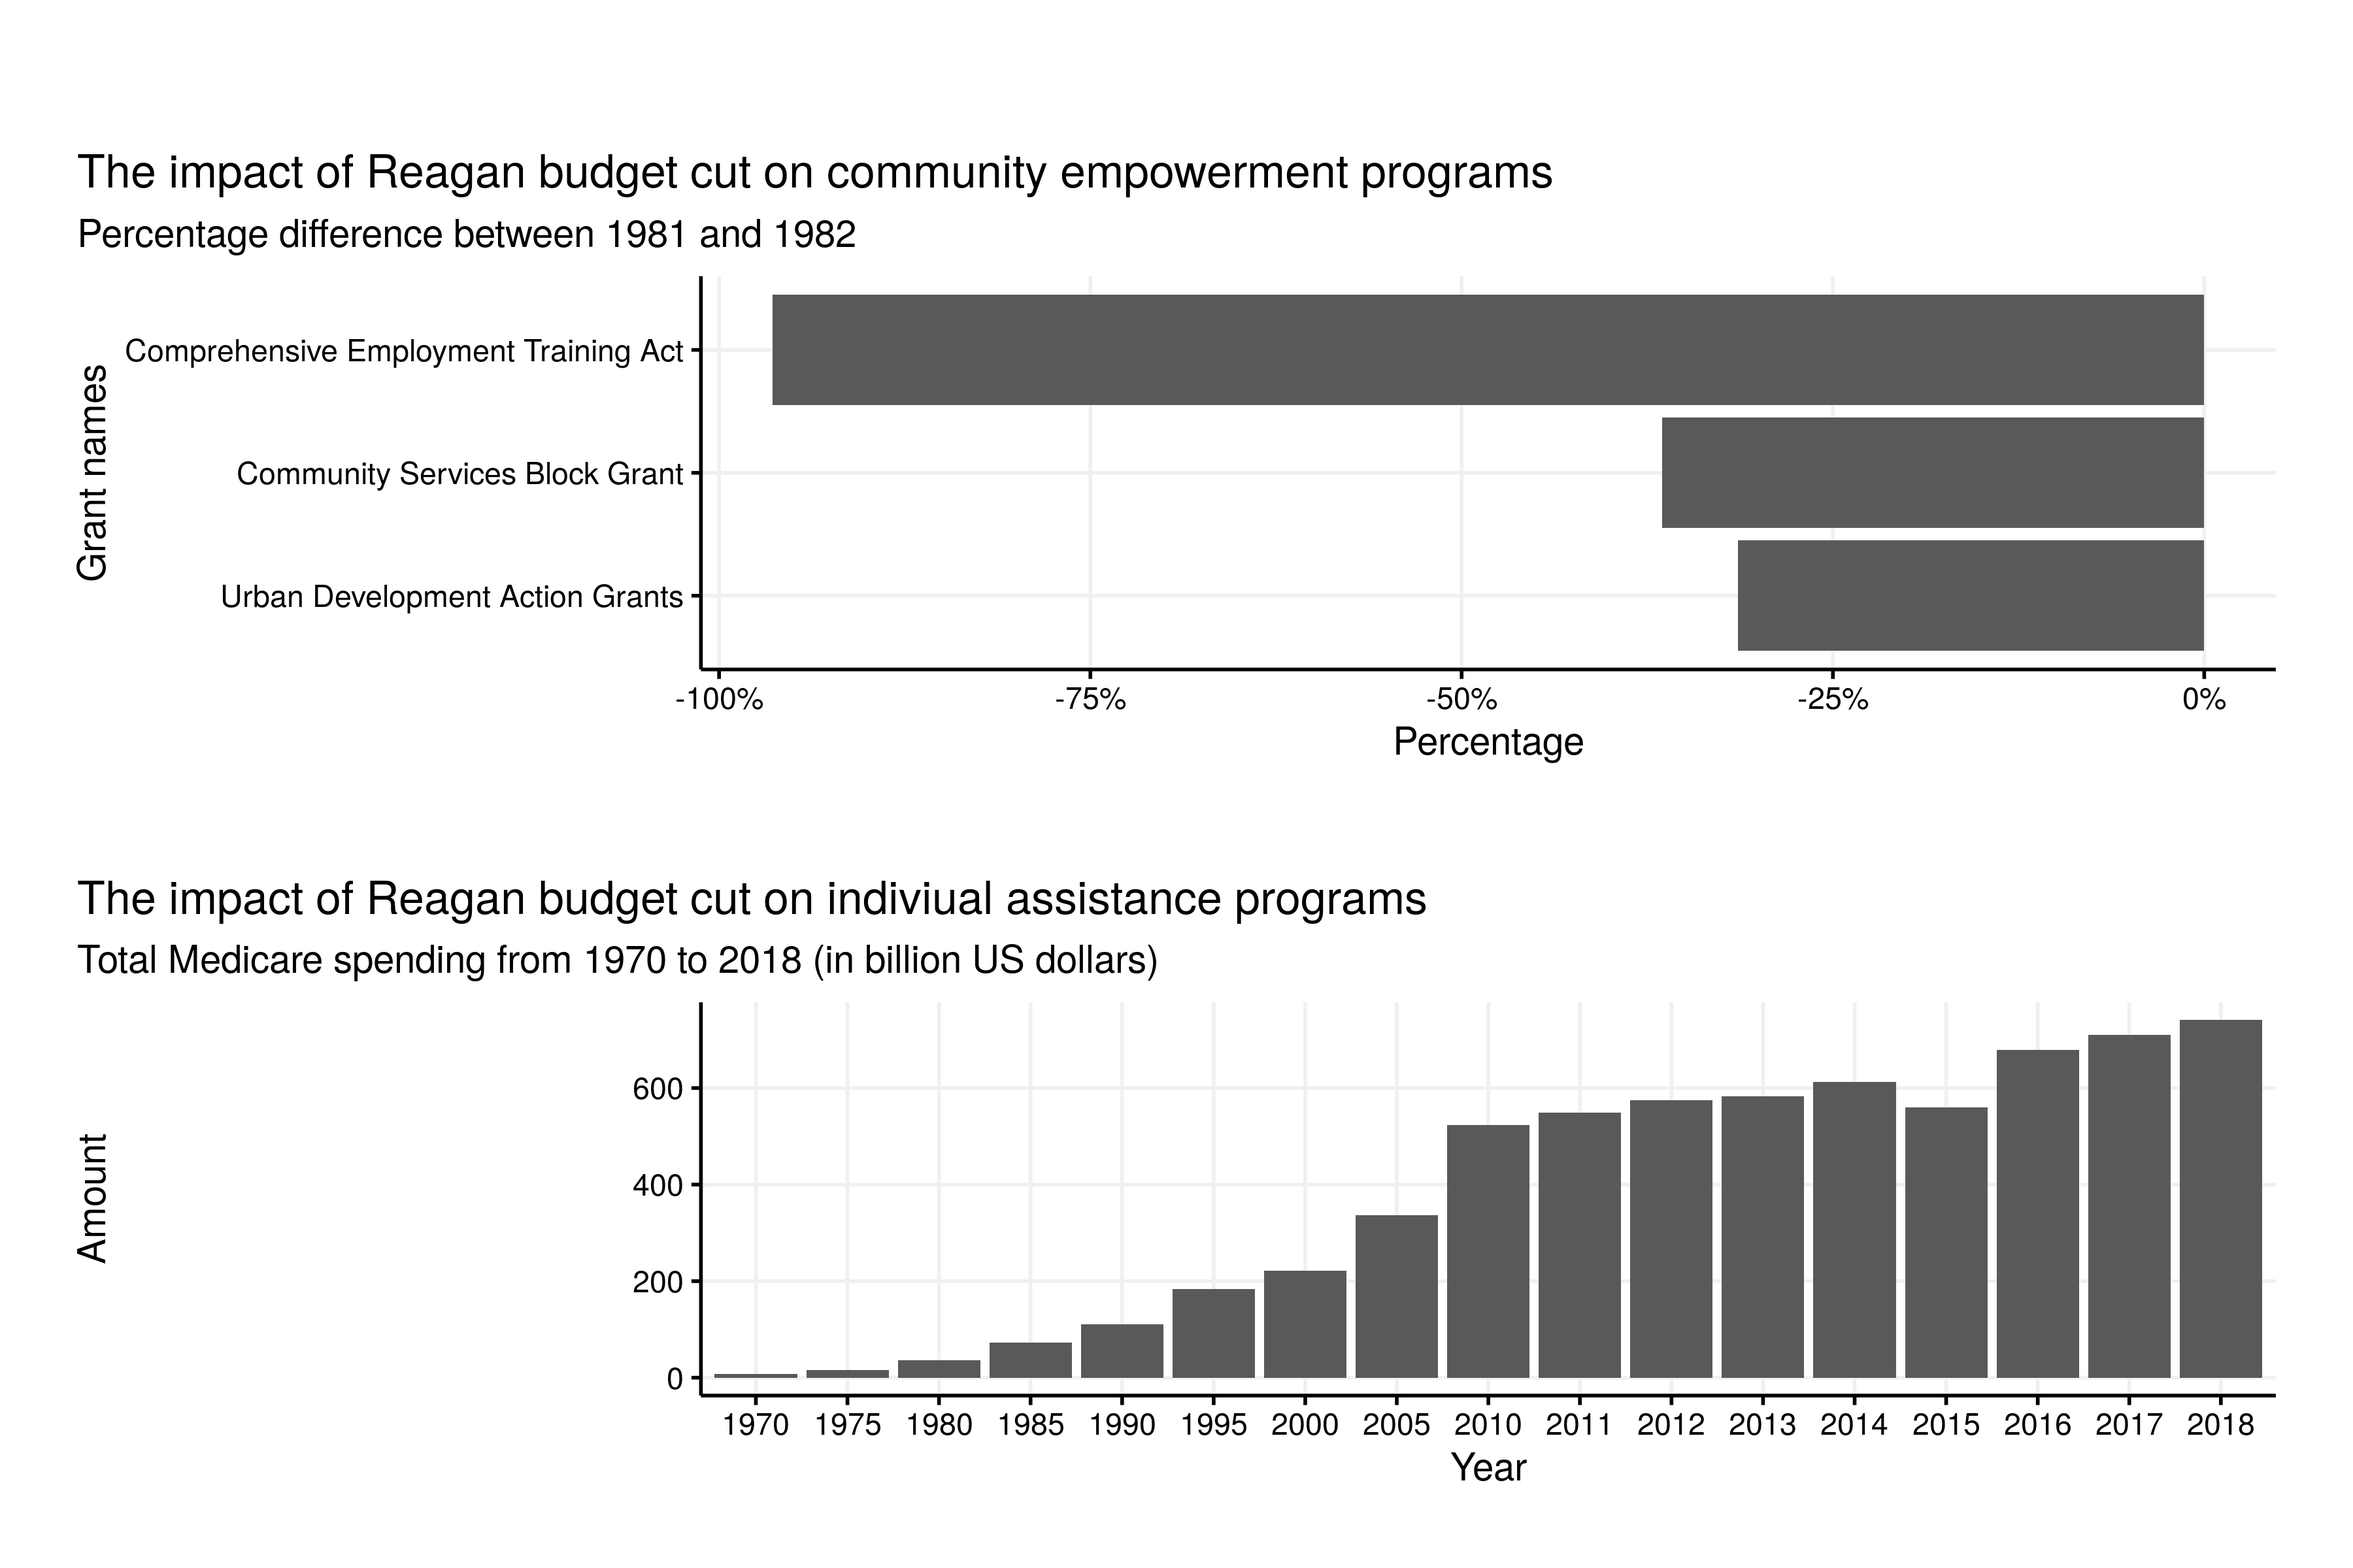
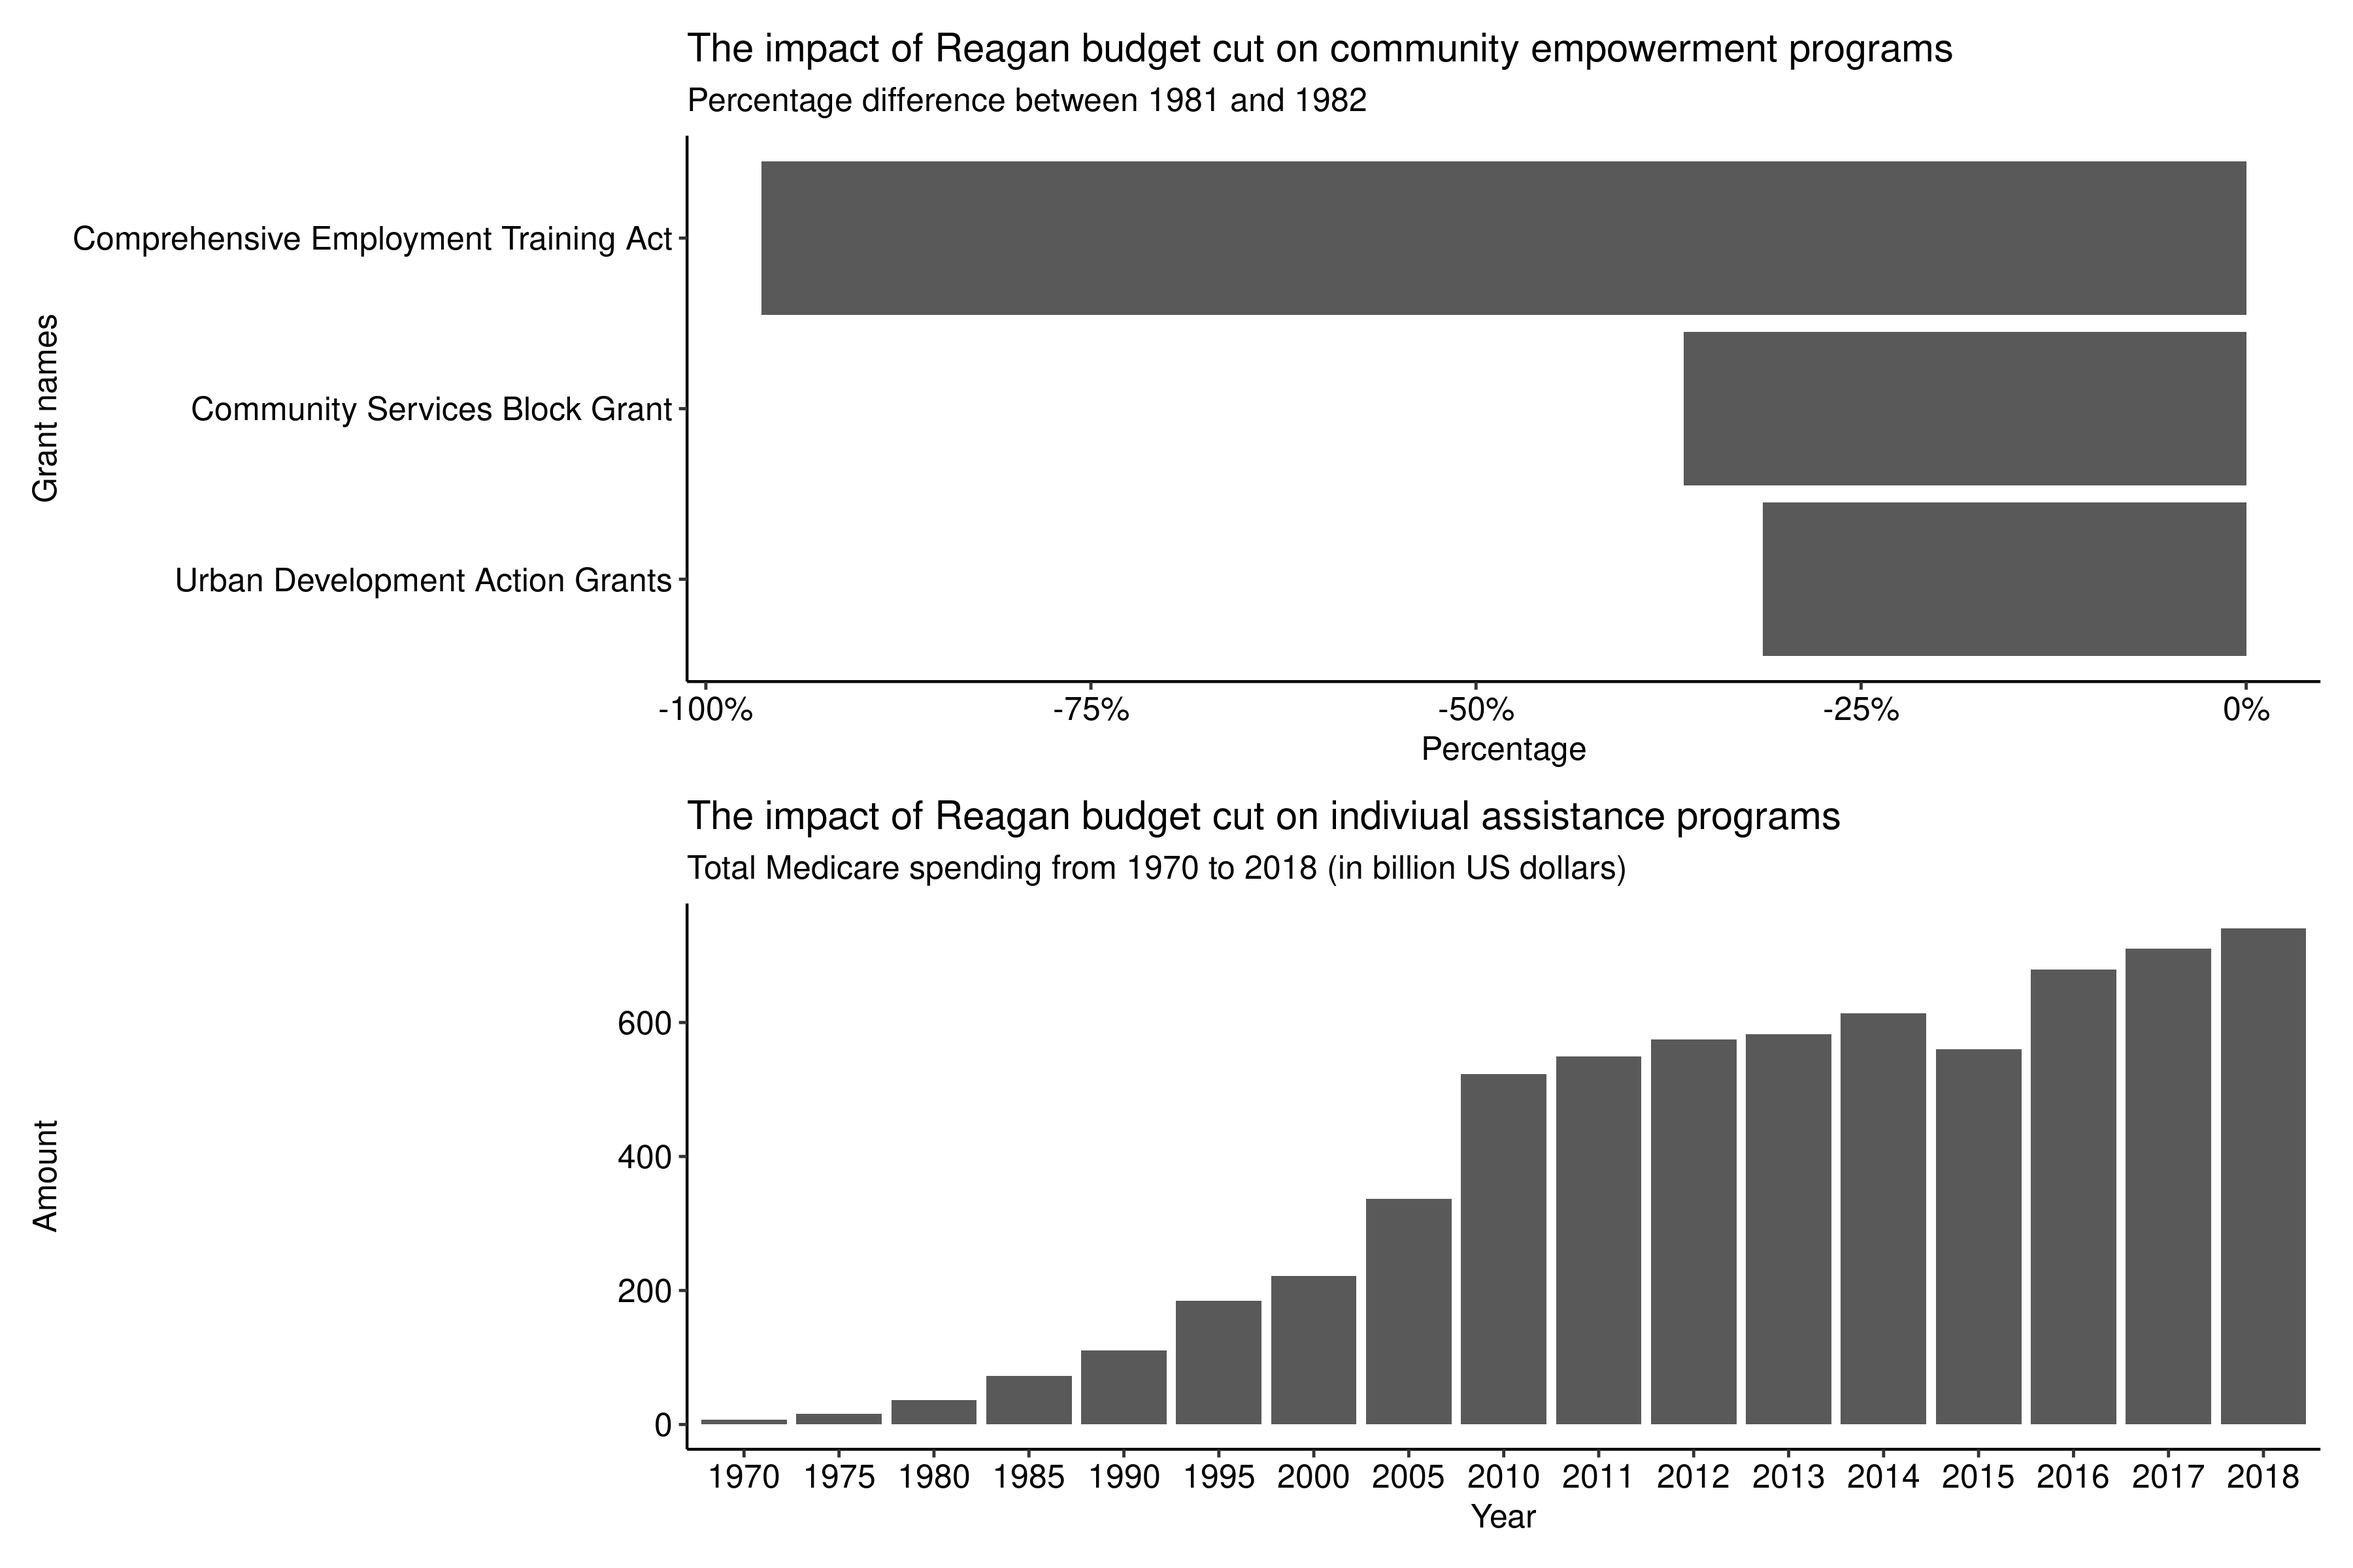
done with the newspaper analysis

diff --git a/README.md b/README.md
@@ -92,31 +92,15 @@ Figure 1 shows that the founding rate (the slope of the line plot) of community-
 
 **Figure 2. Budget trend**
 
-![](https://github.com/jaeyk/analyzing-asian-american-latino-civic-infrastructure/blob/master/outputs/dic_newspaper.png)
+![](https://github.com/jaeyk/analyzing-asian-american-latino-civic-infrastructure/blob/master/outputs/dic_analysis.png)
 
 **Figure 3. Dictionary-based methods analysis**
+
+- [ ] This subsection needs to be updated as the figure now includes information on the Agenda (NCLR newsletter).
 
 Before moving into a more serious statistical analysis, I checked some assumptions I made about the research design. Figure 2 shows that the percentage of the federal budget for education, employment, and social service plunged after the Reagan cuts. (This amount shows a slight decrease during the Carter administration, as he was forced to reduce social programs due to budget constraints.) Reagan made these reductions more dramatic and consistent throughout the 1980s. A more specific analysis of the budget change shows that programs empowering minority communities, such as the Comprehensive Employment Training Act, were critically hurt by the budget cuts. I did not include a more detailed analysis of these policies owing to spatial constraints. This evidence is important for seeing the budget cut as a major intervention.
 
 Figure 3 shows how minority communities reacted to the budget crisis. The *International Examiner* (IE), a community newspaper circulating among Asian American activists in Seattle, did not mention Reagan until 1981. I created a custom dictionary and analyzed the frequency of budget-related terms that appeared in Reagan-related articles from this newspaper source. The figure shows that when the newspaper first mentioned Reagan, the budget crisis received serious attention. This evidence is crucial for seeing the year 1981 as a critical juncture for Asian American and Latino community organizers.
-
-```r
-# Text data
-ie_processed <- ie_data[,-1] %>% # drop the first col
-  ########################## Cleaning vars ##########################
-  mutate(date = gsub(".*:", "", date) %>% str_trim(),
-         date = gsub(",", "", date),
-         date = as.Date(as.character(date), format = "%b%d%Y"),
-         source = gsub(".*:", "", source) %>% str_trim(),
-         author = gsub(".*:", "", author) %>% str_trim())
-
-# Create a document term matrix based on a custom dictionary
-ie_dic <- dfm(corpus(ie_processed),
-              dictionary = dictionary(list(budget =
-                                      c("spending","grants","grant","funding","funds","fund"))))
-# Add to the original data
-ie_processed$budget <- convert(ie_dic, to = "data.frame")[,2]
-```
 
 ![](https://github.com/jaeyk/analyzing-asian-american-latino-civic-infrastructure/blob/master/outputs/outliers_detected.png)
 
